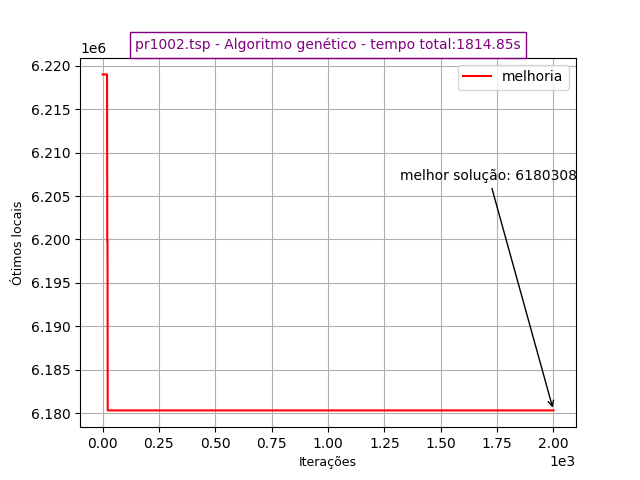
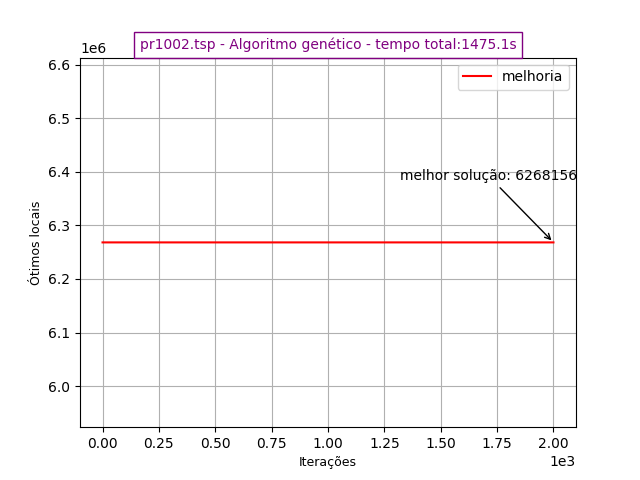
Mudança no padrão dos argumentos e busca local em first improvement

diff --git a/PCV/genetico/genetic.py b/PCV/genetico/genetic.py
@@ -142,7 +142,6 @@ def two_opt(graph, route, x):
                 # newRoute = two_opt_swap(route.copy(), i, k)
                 new_route = route[:]
                 new_route[i:j] = route[j - 1:i - 1:-1]  # o mesmo que two_opt_swap
-                # print(newRoute)
                 new_distance = fitness(graph, new_route)
 
                 ### trecho para matplot ###
@@ -157,7 +156,7 @@ def two_opt(graph, route, x):
                     best_distance = new_distance
                     counter += 1
 
-                if x == 1 and counter >= 6:
+                if x == 1 and counter >= 1:  # first improvement
                     should_break = True
                     improved = False
                     break
@@ -205,18 +204,8 @@ def cx(pais):
         while True:
             # print(f'i:{i} index:{index}\n')
             filhos[i][index] = pais[i][index]
-            # print(f'filhos[{i}][{index}]:{filhos[i][index]}')
-            # print(f'\npai[1]:{pais[1]}')
-            # print(f'\npai[2]:{pais[2]}')
-            # print(f'\nfilho[1]:{filhos[1]}')
-            # print(f'\nfilho[2]:{filhos[2]}')
-            # print(f'\nfilhos[{i}][{index}] = {filhos[i][index]}')
-            # print(f'\npai[{(i % 2) + 1}] = {pais[(i % 2) + 1]}')
-
             index = pais[(i % 2) + 1].index(filhos[i][index])
-
             # print(f'repetidos:{list(duplicates(pais[(i % 2) + 1]))}')
-
             if index != 0 or pais[1][0] == pais[2][0]:
                 break
     return filhos
@@ -278,7 +267,7 @@ def selection_by_fit(graph, population, index):
 
 def mutation(mut, population):
     mut_tax = ceil((mut / 100) * localLen(population[1]))
-    print(f'mut:{mut} mut_tax:{mut_tax} localLen(population):{localLen(population)}')
+    # print(f'mut:{mut} mut_tax:{mut_tax} localLen(population):{localLen(population)}')
 
     i = (randint(1, localLen(population[1])))
     j = (randint(i, localLen(population[1])))
@@ -335,9 +324,6 @@ def genetic(graph, pop, mut, max_i, max_t, s, cross_operator):
         li = range(1, localLen(graph))
         population.append(random.sample(li, localLen(li)))
 
-    for elemento in population:
-        print(f'elemento:{elemento} - tamanho:{localLen(elemento)}')
-
     start_time = time.time()
     exe_time = 0
     while (exe_time <= max_t) and (it <= max_i):
@@ -353,9 +339,7 @@ def genetic(graph, pop, mut, max_i, max_t, s, cross_operator):
 
         #### Seleção ###
         print(f'\nSeleção:[{it}]')
-        pais = selection_by_tournament(graph, localDeepcopy(population), k, s)
-        # for i in range(1,localLen(pais)):
-        #     print(f'pais[{i}]:{pais[i]} - custo(pais[{i}]):{fitness(graph,pais[i])}\n')
+        pais = selection_by_tournament(graph, localDeepcopy(population), k, s)  # seleção por torneio
         # pais = selection_by_fit(graph, population.copy(), index)
 
         ### Cruzamento ###
@@ -364,26 +348,22 @@ def genetic(graph, pop, mut, max_i, max_t, s, cross_operator):
             filhos = cx(pais)
         else:
             filhos = pos(pais)
-        # for i in range(1,localLen(filhos)):
-        #     print(f'filhos[{i}]:{filhos[i]} - custo(filhos[{i}]):{fitness(graph, filhos[i])}\n')
 
         ### Mutação ###
         print(f'\nMutação:[{it}]')
         filhos = mutation(mut, filhos.copy())
-        # for i in range(1,localLen(filhos)):
-        #     print(f'filhos[{i}]:{filhos[i]} - custo(filhos[{i}]):{fitness(graph, filhos[i])}\n')
 
         ### Busca Local ###
         print(f'\nBusca Local:[{it}]')
         busca = []
         for i in range(1, localLen(filhos)):
-            busca.append(deepcopy(two_opt(graph, filhos[i].copy(), 1)))
+            busca.append(localDeepcopy(two_opt(graph, filhos[i].copy(), 1)))
         # for i in range(1,localLen(busca)):
         #     print(f'busca[{i}]:{busca[i]} - custo(busca[{i}]):{fitness(graph, busca[i])}\n')
 
         ### atualização ###
         print(f'\nAtualização da população:[{it}]')
-        population = steady_stated(graph, deepcopy(population), deepcopy(busca))
+        population = steady_stated(graph, localDeepcopy(population), localDeepcopy(busca))
         # for i in range(1,localLen(population)):
         #     print(f'population[{i}]:{population[i]} - custo(filhos[{i}]):{fitness(graph, population[i])}\n')
 
@@ -393,4 +373,4 @@ def genetic(graph, pop, mut, max_i, max_t, s, cross_operator):
 
     print(f'\nMelhor solução:{best_solution}\n')
     file_name = sys.argv[len(sys.argv) - 1]
-    plot_graf(plt_opts, plt_counters, file_name, round(exe_time, 2), best_solution)
+    plot_graf(plt_opts, plt_counters, file_name, round(exe_time, 2), best_solution, cross_operator)

diff --git a/PCV/genetico/input.py b/PCV/genetico/input.py
@@ -20,32 +20,31 @@ def is_valid_file(parser, arg):
 
 
 def fileinput():
-
     parser = ArgumentParser(description='Algoritmo genético aplicado ao problema do caixeiro viajante; ',
-                            epilog="Tente:  ./main att48.tsp")
+                            epilog="Tente:  ./main pr1002.tsp")
 
     parser.add_argument(dest="filename", help='arquivo .tsp',
                         type=lambda x: is_valid_file(parser, x))
 
-    parser.add_argument('-cross', action='store',  dest='cross_operator', default='cx',
+    parser.add_argument('-cross', action='store', dest='cross_operator', default='cx',
                         required=False,
-                        help="Operador de cruzamento, cx para 'Cycle crossover', pos para 'Position based crossover' ")
+                        help="Operador de cruzamento, cx para algoritmo 'Cycle crossover', pos para algoritmo 'Position based crossover' ")
 
     parser.add_argument('-pop', action='store', type=int, dest='population', default=25,
                         required=False,
                         help="Tamanho da população inicial (padrão: 25)")
 
-    parser.add_argument('-mut', action='store', dest='mutation', default=5,
+    parser.add_argument('-mut', action='store', dest='mutation', default=6,
                         required=False,
                         help="Porcentagem de mutação (padrão: 5 )")
 
-    parser.add_argument('-max_i', action='store', dest='max_iteration', default=2000,
+    parser.add_argument('-max_i', action='store', dest='max_iteration', default=20000000000,  # 20bi
                         required=False,
                         help="Máximo de iterações (padrão: 2000)")
 
-    parser.add_argument('-max_t', action='store', dest='max_time', default=60,
+    parser.add_argument('-max_t', action='store', dest='max_time', default=240,
                         required=False,
-                        help="Máximo de tempo de execução(minutos) (padrão: 60)")
+                        help="Máximo de tempo de execução (minutos) (padrão: 60)")
 
     parser.add_argument('-s', action='store', dest='seed', default=1,
                         required=False,

diff --git a/PCV/genetico/aux.py b/PCV/genetico/aux.py
@@ -12,7 +12,7 @@ def printgraph(graph):
 
 ########################################################################################################################
 
-def plot_graf(opt_values, counter_values, file_name, exe_time, cost):
+def plot_graf(opt_values, counter_values, file_name, exe_time, cost, cross_operator):
     # print("otimos locais {}".format(opt_values))
 
     # print("i {}".format(counter_values))
@@ -42,10 +42,10 @@ def plot_graf(opt_values, counter_values, file_name, exe_time, cost):
     plt.grid(True)
     plt.xlabel("Iterações", fontsize=9)
     plt.ylabel("Ótimos locais", fontsize=9)
-    plt.plot(counter_values, opt_values, label='melhoria',  color='red')
+    plt.plot(counter_values, opt_values, label=f'{cross_operator}',  color='red')
     # plt.scatter(counter_values, opt_values, marker="+", color='red')
     plt.legend(loc='best')
     plt.savefig(
-        f'{name.replace(" ", "-") + "_" + file_name.replace(" ", "_").replace(".tsp", ".png")}')
+        f'{name.replace(" ", "-") + "_" + cross_operator + "_" +  file_name.replace(" ", "_").replace(".tsp", ".png")}')
     plt.show()
     # print(route)

diff --git a/PCV/genetico/main.py b/PCV/genetico/main.py
@@ -17,5 +17,3 @@ if __name__ == '__main__':
     args, graph = fileinput()
 
     genetic(graph[:], int(args.population), int(args.mutation), int(args.max_iteration), int(args.max_time) * 60, int(args.seed), args.cross_operator)
-
-
